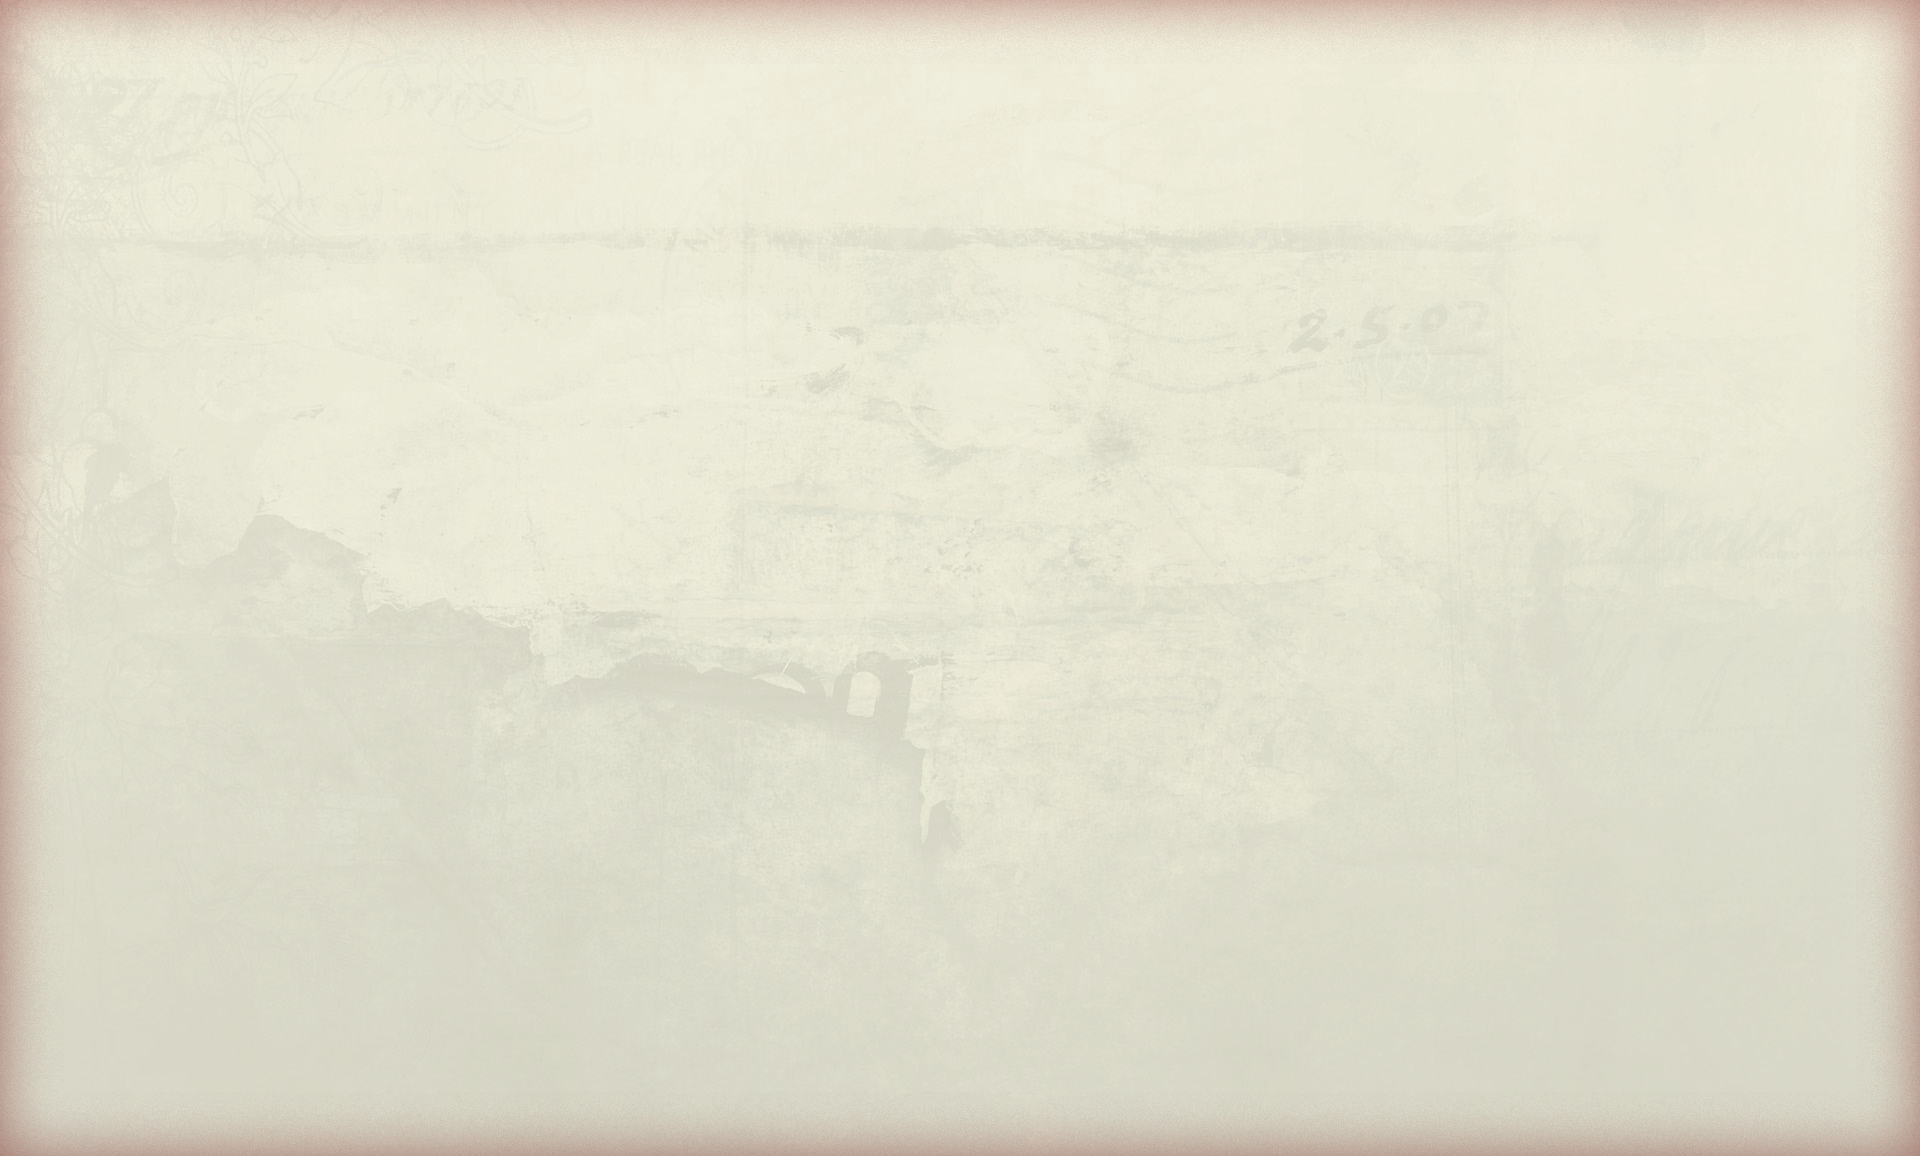
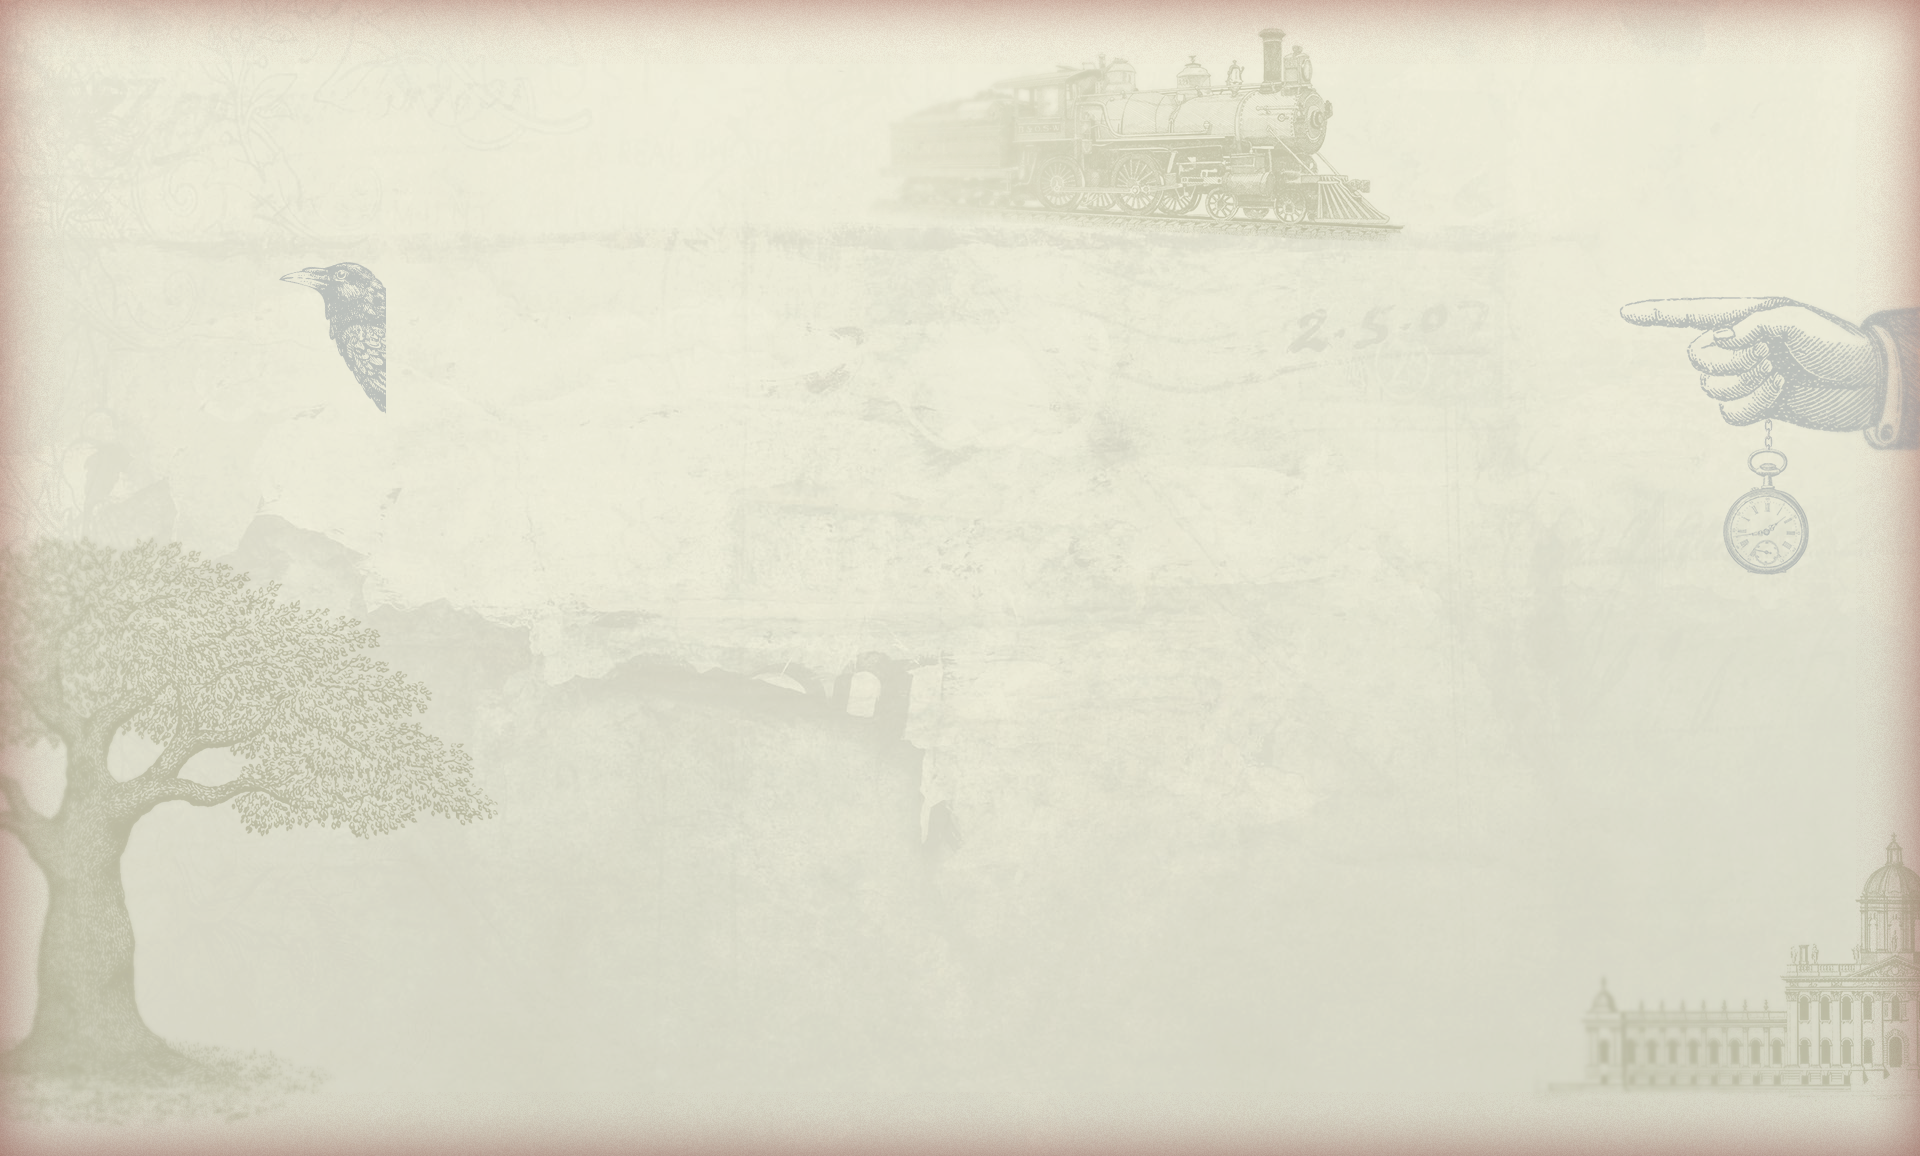
theGame bg-old-paper

diff --git a/build/styles/styles.css b/build/styles/styles.css
@@ -29,4 +29,8 @@ body {
 .page-content {
   -ms-flex: 1;
   flex: 1;
+  background-image: url("../images/bg-old-paper.png");
+  background-position: center;
+  background-repeat: no-repeat;
+  background-size: cover;
 }

diff --git a/src/styles/styles.less b/src/styles/styles.less
@@ -25,4 +25,8 @@ body{
 }
 .page-content{
     flex: 1;
+    background-image: url("../images/bg-old-paper.png");
+    background-position: center;
+    background-repeat: no-repeat;
+    background-size: cover;
 }
